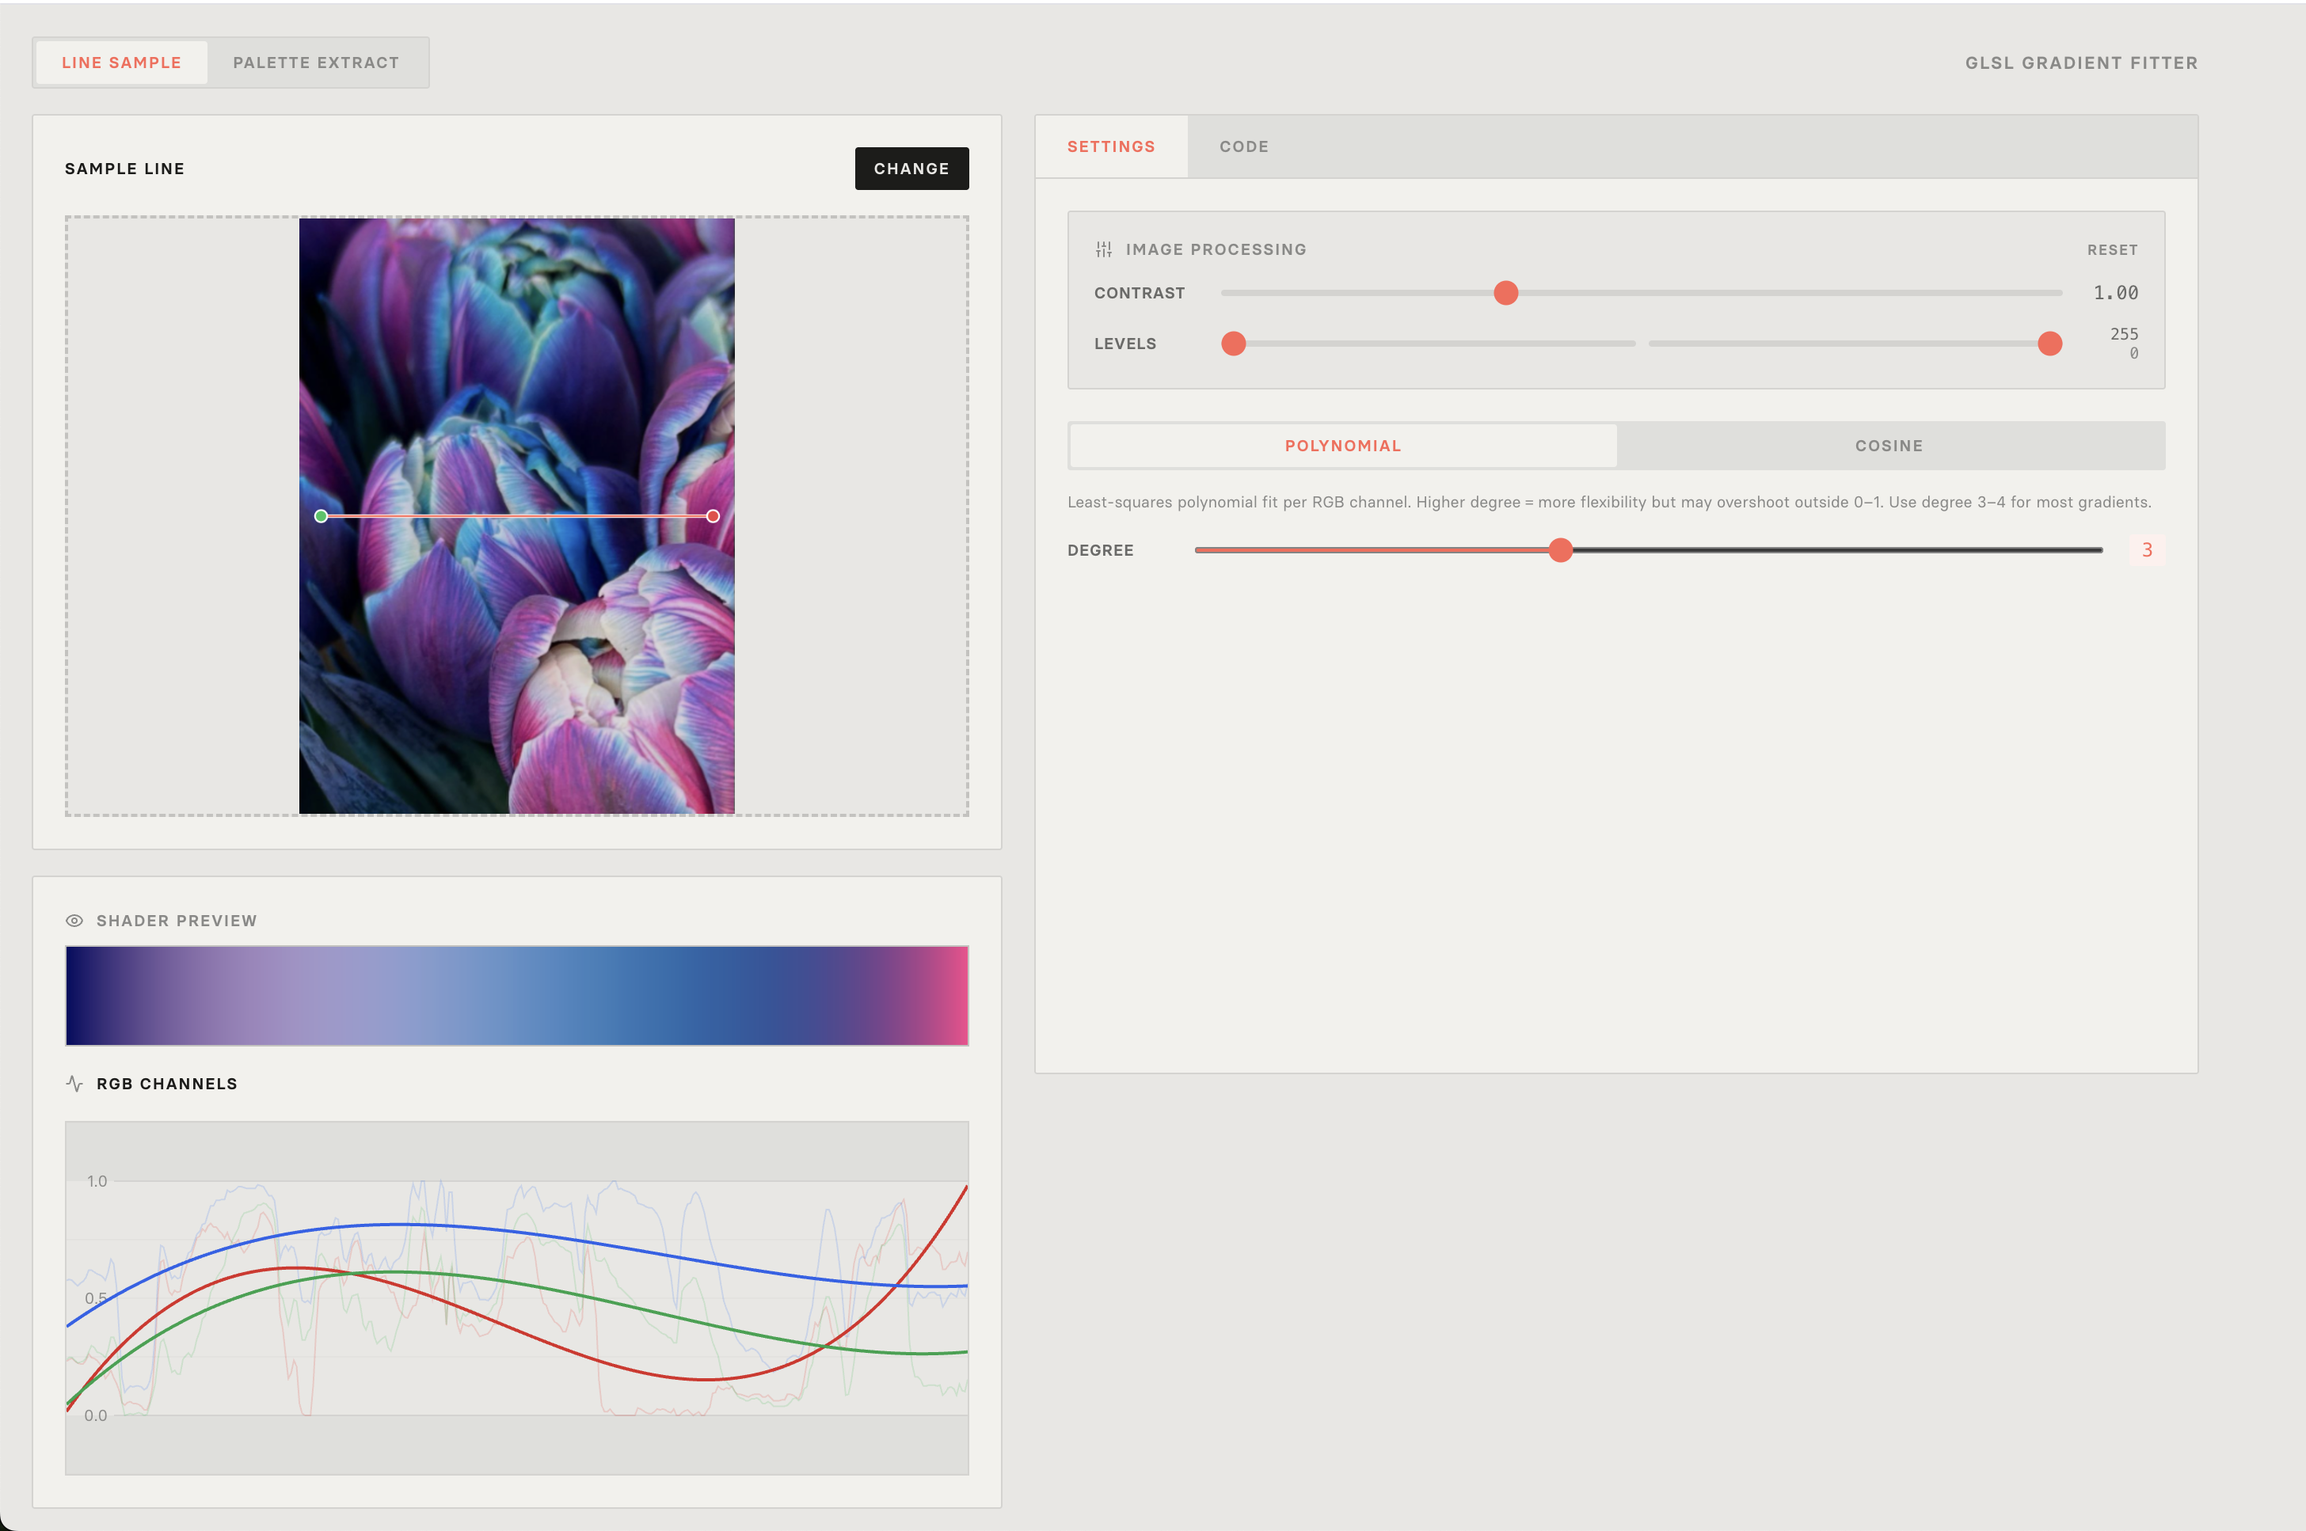
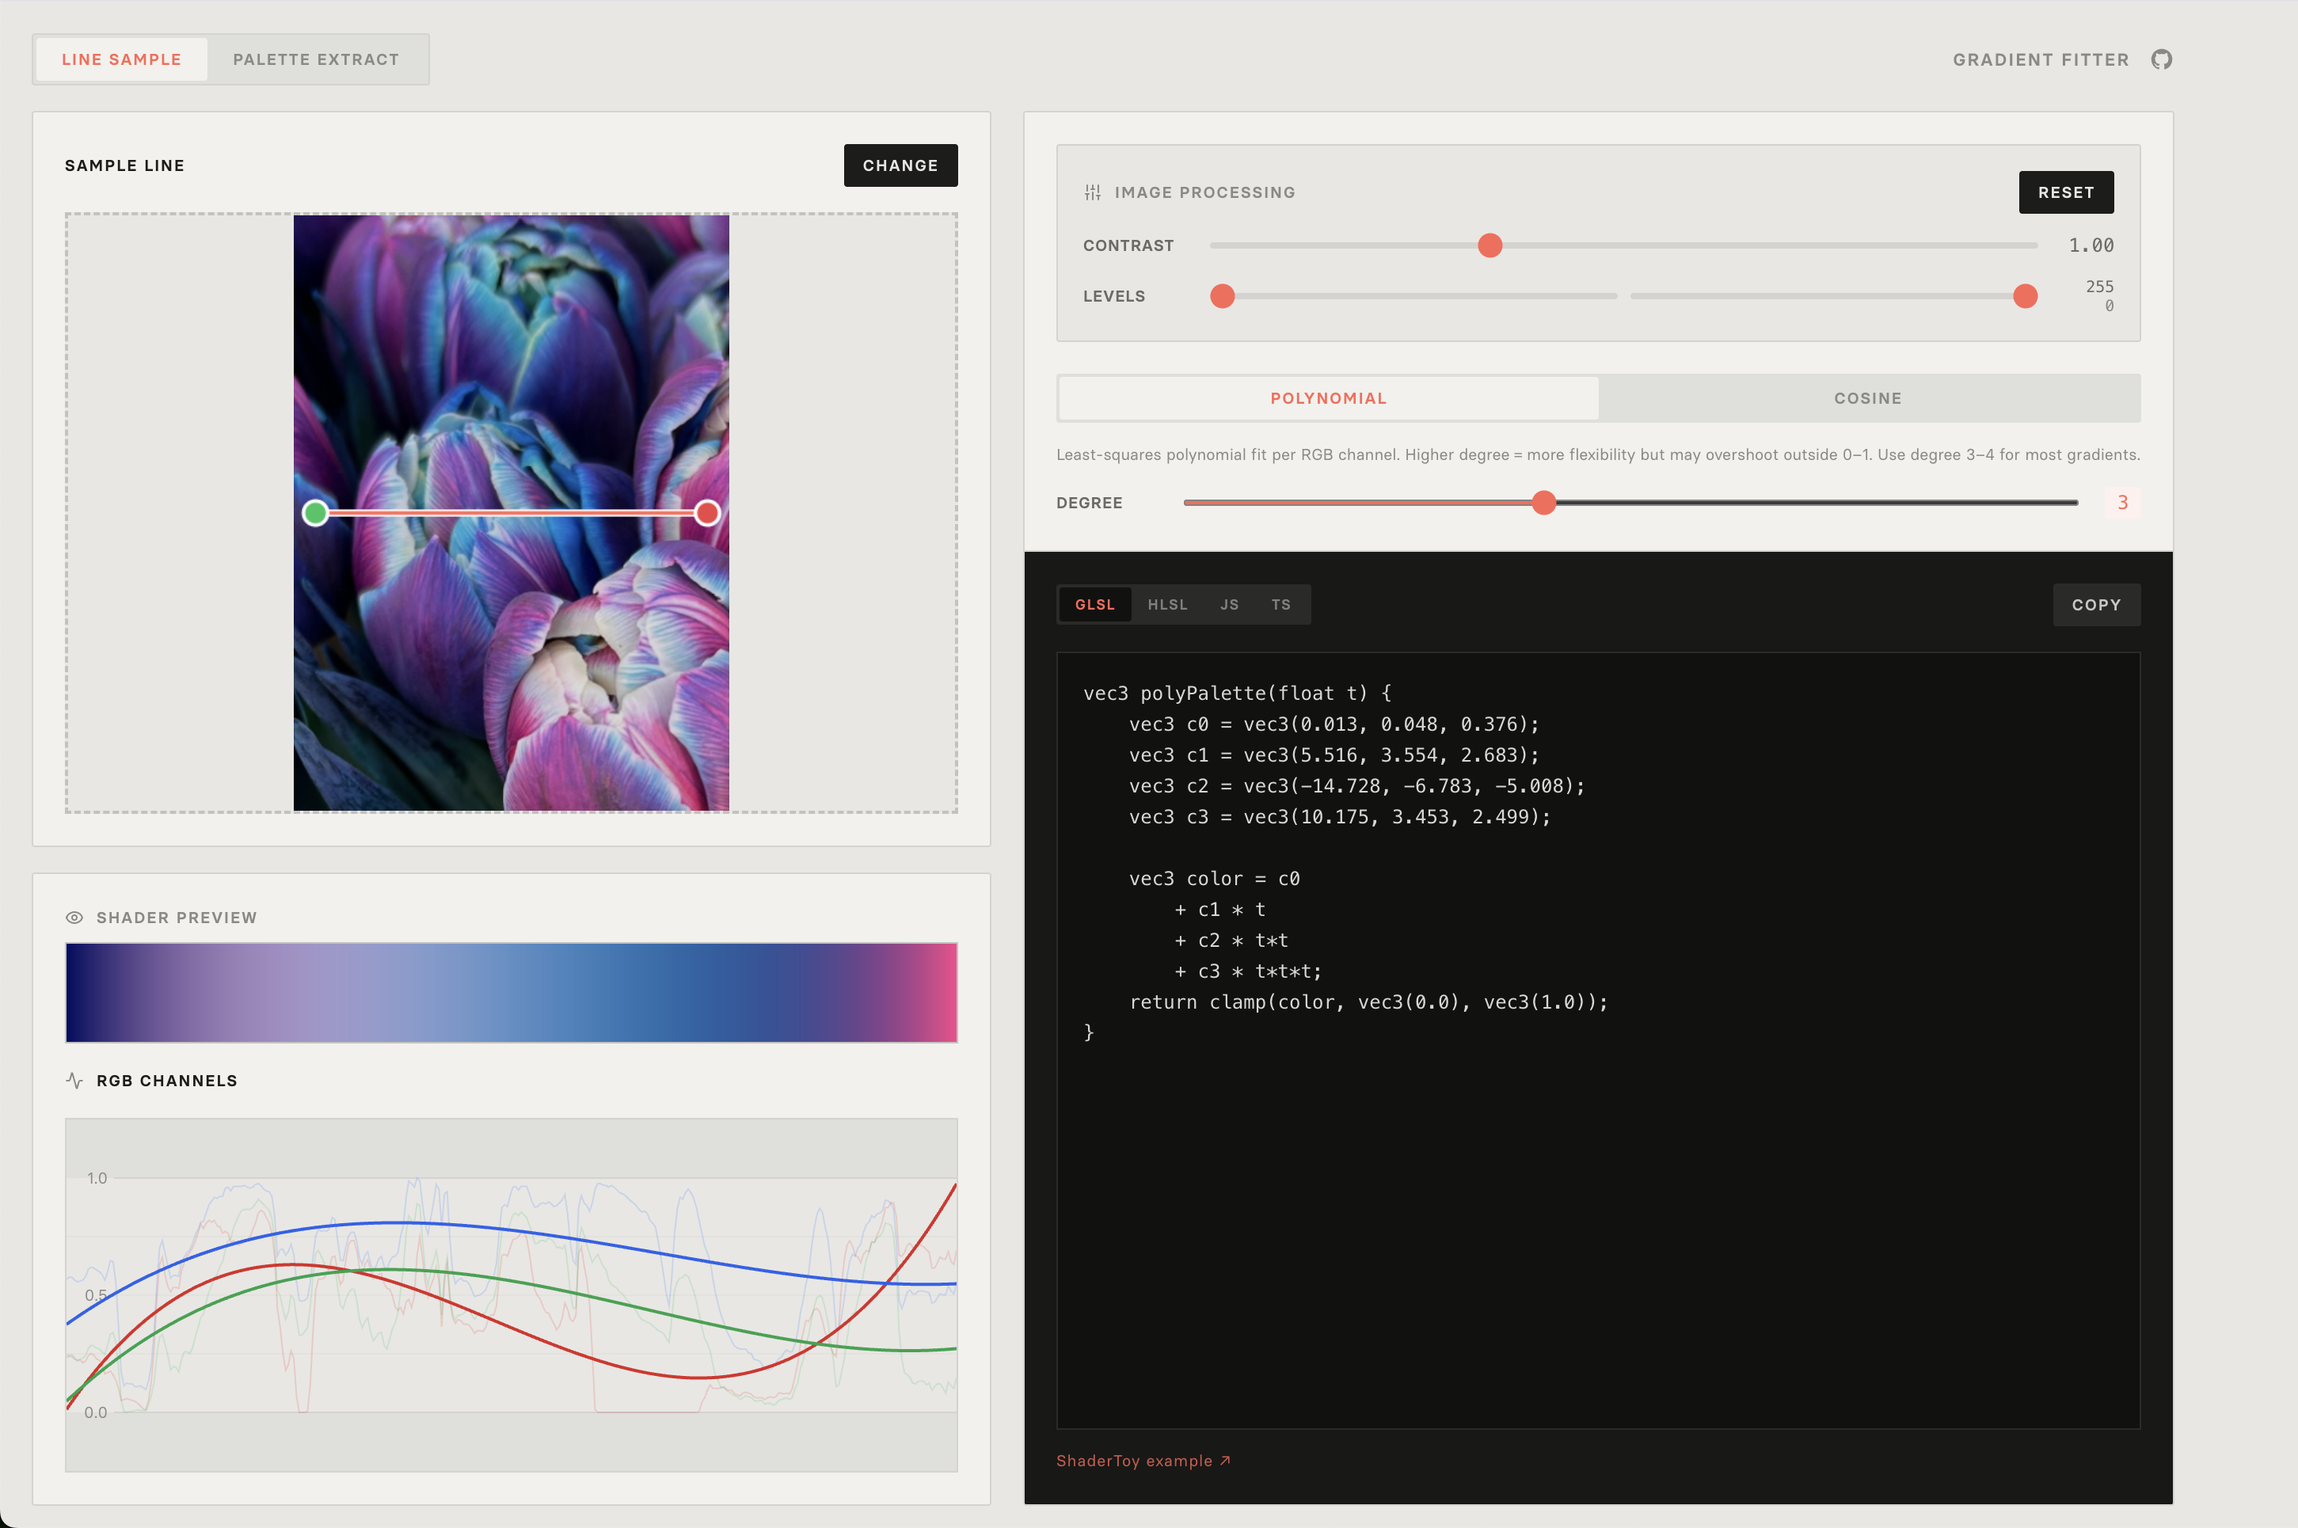
Polish: language tabs, animated settings, drag upload, layout fixes
- Wire language/fitMode props to palette mode CodePanel so tabs appear
- JS/TS output: regular function declarations, to255/toCSS helpers, remove usage comments
- Example links in code panel keyed by language and fit mode
- Drag-and-drop image upload with accent border highlight
- Animated collapsible sections in settings (grid-rows transition)
- Unified slider label widths, cosine More info link on separate line
- Layout: overflow-hidden on palette relative container prevents height jump,
  flex-1 chain in line mode fills code panel to full column height
- README: update for multi-language output, fix method count

diff --git a/src/components/PaletteModeSettings.jsx b/src/components/PaletteModeSettings.jsx
@@ -18,6 +18,12 @@ const Toggle = ({ on, onToggle, labelOn, labelOff }) => (
   </button>
 );
 
+const Collapsible = ({ open, children }) => (
+  <div className={`grid transition-[grid-template-rows] duration-200 ${open ? 'grid-rows-[1fr]' : 'grid-rows-[0fr]'}`}>
+    <div className="overflow-hidden">{children}</div>
+  </div>
+);
+
 const FIT_MODE_ORDER = ['catmull', 'linear', 'poly', 'cosine'];
 
 const FIT_MODE_DESCRIPTIONS = {
@@ -109,8 +115,8 @@ const PaletteModeSettings = ({
       )}
     </div>
 
-    {paletteMethod === 'api' && (
-      <>
+    <Collapsible open={paletteMethod === 'api'}>
+      <div className="space-y-3 pt-0.5">
         <div className="flex items-center gap-3">
           <label className="text-[10px] font-semibold text-[var(--text-secondary)] w-20 shrink-0 uppercase tracking-wider">
             Model
@@ -144,8 +150,8 @@ const PaletteModeSettings = ({
             {apiSeedCount} of 5
           </span>
         </div>
-      </>
-    )}
+      </div>
+    </Collapsible>
 
     <div className="flex items-center gap-2 pt-1">
       <span className="text-[9px] font-semibold text-[var(--text-muted)] uppercase tracking-widest">Fit Function</span>
@@ -169,25 +175,27 @@ const PaletteModeSettings = ({
     </div>
 
     <p className="text-[10px] text-[var(--text-muted)] leading-relaxed">
-      {paletteFitMode === 'cosine' ? (
-        <>
-          Fits a + b·cos(2π(ct+d)) per channel. Smooth, loops perfectly with freq locked. Best for organic gradients.{' '}
-          <a
-            href="https://iquilezles.org/articles/palettes/"
-            target="_blank"
-            rel="noopener noreferrer"
-            className="underline hover:text-[var(--text)] transition-colors"
-          >
-            iquilezles.org/articles/palettes
-          </a>
-        </>
-      ) : (
-        FIT_MODE_DESCRIPTIONS[paletteFitMode]
-      )}
+      {paletteFitMode === 'cosine'
+        ? 'Fits a + b·cos(2π(ct+d)) per channel. Smooth, loops perfectly with freq locked. Best for organic gradients.'
+        : FIT_MODE_DESCRIPTIONS[paletteFitMode]}
     </p>
 
-    {LINEAR_LIGHT_MODES.includes(paletteFitMode) && (
-      <div className="space-y-1.5">
+    <Collapsible open={paletteFitMode === 'cosine'}>
+      <p className="text-[10px] text-[var(--text-muted)] pt-0.5">
+        More info:{' '}
+        <a
+          href="https://iquilezles.org/articles/palettes/"
+          target="_blank"
+          rel="noopener noreferrer"
+          className="underline hover:text-[var(--text)] transition-colors"
+        >
+          iquilezles.org/articles/palettes
+        </a>
+      </p>
+    </Collapsible>
+
+    <Collapsible open={LINEAR_LIGHT_MODES.includes(paletteFitMode)}>
+      <div className="space-y-1.5 pt-0.5">
         <div className="flex items-center gap-3">
           <label className="text-[10px] font-semibold text-[var(--text-secondary)] w-20 uppercase tracking-wider">
             Interp. space
@@ -212,11 +220,11 @@ const PaletteModeSettings = ({
           </a>
         </p>
       </div>
-    )}
+    </Collapsible>
 
-    {paletteFitMode === 'poly' && (
-      <div className="flex items-center gap-4">
-        <label className="text-[10px] font-semibold text-[var(--text-secondary)] w-16 uppercase tracking-wider">
+    <Collapsible open={paletteFitMode === 'poly'}>
+      <div className="flex items-center gap-4 pt-0.5">
+        <label className="text-[10px] font-semibold text-[var(--text-secondary)] w-20 uppercase tracking-wider">
           Degree
         </label>
         <input
@@ -232,10 +240,10 @@ const PaletteModeSettings = ({
           {degree}
         </span>
       </div>
-    )}
+    </Collapsible>
 
-    {paletteMethod !== 'api' && (
-      <div className="space-y-1">
+    <Collapsible open={paletteMethod !== 'api'}>
+      <div className="space-y-1 pt-0.5">
         <div className="flex items-center gap-4">
           <label className="text-[10px] font-semibold text-[var(--text-secondary)] w-20 uppercase tracking-wider">
             Colors
@@ -258,10 +266,10 @@ const PaletteModeSettings = ({
           them smoothly.
         </p>
       </div>
-    )}
+    </Collapsible>
 
-    {paletteFitMode === 'cosine' && (
-      <div className="flex items-center gap-3">
+    <Collapsible open={paletteFitMode === 'cosine'}>
+      <div className="flex items-center gap-3 pt-0.5">
         <label className="text-[10px] font-semibold text-[var(--text-secondary)] w-20 uppercase tracking-wider">
           Lock freq
         </label>
@@ -270,10 +278,10 @@ const PaletteModeSettings = ({
           {lockFrequency ? 'Locked – gradient loops perfectly' : 'Free – more accurate fit, may not loop'}
         </span>
       </div>
-    )}
+    </Collapsible>
 
-    {(paletteFitMode === 'linear' || paletteFitMode === 'catmull') && paletteMethod !== 'api' && (
-      <div className="space-y-1.5">
+    <Collapsible open={(paletteFitMode === 'linear' || paletteFitMode === 'catmull') && paletteMethod !== 'api'}>
+      <div className="space-y-1.5 pt-0.5">
         <div className="flex items-center gap-3">
           <label className="text-[10px] font-semibold text-[var(--text-secondary)] w-20 uppercase tracking-wider">
             Dominance
@@ -292,7 +300,7 @@ const PaletteModeSettings = ({
             : 'Color stops are evenly spaced. Each color gets equal range regardless of how much of the image it covers.'}
         </p>
       </div>
-    )}
+    </Collapsible>
 
     <div className={`space-y-1 ${extractedColors.length === 0 ? 'hidden' : ''}`}>
       <div className="flex items-center justify-between">

diff --git a/src/App.jsx b/src/App.jsx
@@ -393,7 +393,7 @@ const App = () => {
           </a>
         </div>
 
-        <div className="grid grid-cols-1 lg:grid-cols-[1fr_1.2fr] gap-5 items-start">
+        <div className="grid grid-cols-1 lg:grid-cols-[1fr_1.2fr] gap-5 items-start lg:items-stretch">
           <div className="space-y-4 min-w-0">
             <ImagePanel
               imageSrc={imageSrc}
@@ -412,7 +412,7 @@ const App = () => {
             <GraphPanel graphRef={graphRef} shaderCanvasRef={shaderCanvasRef} />
           </div>
 
-          <div className="min-w-0 border border-[var(--border)] rounded-sm overflow-hidden">
+          <div className="min-w-0 border border-[var(--border)] rounded-sm overflow-hidden flex flex-col">
             {appMode === 'line' ? (
               <>
                 <div className="bg-[var(--surface)] p-5 space-y-5">
@@ -426,13 +426,13 @@ const App = () => {
                   />
                   <LineModeSettings fitMode={fitMode} setFitMode={setFitMode} degree={degree} setDegree={setDegree} />
                 </div>
-                <div className="border-t border-[var(--border)]">
-                  <CodePanel glslCode={glslCode} status={status} error={error} language={language} setLanguage={setLanguage} fitMode={fitMode} />
+                <div className="border-t border-[var(--border)] flex-1 flex flex-col">
+                  <CodePanel glslCode={glslCode} status={status} error={error} language={language} setLanguage={setLanguage} fitMode={fitMode} className="flex-1" />
                 </div>
               </>
             ) : (
               <>
-                <div className="flex bg-[var(--surface-muted)] border-b border-[var(--border)]">
+                <div className="flex bg-[var(--surface-muted)] border-b border-[var(--border)] shrink-0">
                   {[
                     ['settings', 'Settings'],
                     ['code', 'Code'],
@@ -450,9 +450,9 @@ const App = () => {
                     </button>
                   ))}
                 </div>
-                <div className="relative">
-                  <div className={rightTab === 'code' ? 'invisible pointer-events-none' : ''}>
-                    <div className="bg-[var(--surface)] p-5">
+                <div className="relative flex-1 min-h-0 overflow-hidden">
+                  <div className={`h-full ${rightTab === 'code' ? 'invisible pointer-events-none' : ''}`}>
+                    <div className="bg-[var(--surface)] p-5 h-full overflow-auto">
                       <div className="space-y-5">
                         <ImageAdjustPanel
                           contrast={contrast}

diff --git a/src/components/LineModeSettings.jsx b/src/components/LineModeSettings.jsx
@@ -1,15 +1,14 @@
 import React from 'react';
 
+const Collapsible = ({ open, children }) => (
+  <div className={`grid transition-[grid-template-rows] duration-200 ${open ? 'grid-rows-[1fr]' : 'grid-rows-[0fr]'}`}>
+    <div className="overflow-hidden">{children}</div>
+  </div>
+);
+
 const ALGO_DESCRIPTIONS = {
   poly: 'Least-squares polynomial fit per RGB channel. Higher degree = more flexibility but may overshoot outside 0–1. Use degree 3–4 for most gradients.',
-  cosine: (
-    <>
-      Fits a + b·cos(2π(ct+d)) per channel. Smooth, loops perfectly with freq locked. Best for organic gradients.{' '}
-      <a href="https://iquilezles.org/articles/palettes/" target="_blank" rel="noopener noreferrer" className="underline hover:text-[var(--text)] transition-colors">
-        iquilezles.org/articles/palettes
-      </a>
-    </>
-  ),
+  cosine: 'Fits a + b·cos(2π(ct+d)) per channel. Smooth, loops perfectly with freq locked. Best for organic gradients.',
 };
 
 const LineModeSettings = ({ fitMode, setFitMode, degree, setDegree }) => (
@@ -34,9 +33,23 @@ const LineModeSettings = ({ fitMode, setFitMode, degree, setDegree }) => (
       {ALGO_DESCRIPTIONS[fitMode]}
     </p>
 
-    {fitMode === 'poly' && (
-      <div className="flex items-center gap-4">
-        <label className="text-[10px] font-semibold text-[var(--text-secondary)] w-16 uppercase tracking-wider">
+    <Collapsible open={fitMode === 'cosine'}>
+      <p className="text-[10px] text-[var(--text-muted)] pt-0.5">
+        More info:{' '}
+        <a
+          href="https://iquilezles.org/articles/palettes/"
+          target="_blank"
+          rel="noopener noreferrer"
+          className="underline hover:text-[var(--text)] transition-colors"
+        >
+          iquilezles.org/articles/palettes
+        </a>
+      </p>
+    </Collapsible>
+
+    <Collapsible open={fitMode === 'poly'}>
+      <div className="flex items-center gap-4 pt-0.5">
+        <label className="text-[10px] font-semibold text-[var(--text-secondary)] w-20 uppercase tracking-wider">
           Degree
         </label>
         <input
@@ -50,7 +63,7 @@ const LineModeSettings = ({ fitMode, setFitMode, degree, setDegree }) => (
           {degree}
         </span>
       </div>
-    )}
+    </Collapsible>
   </div>
 );
 

diff --git a/src/components/ImagePanel.jsx b/src/components/ImagePanel.jsx
@@ -25,6 +25,16 @@ const ImagePanel = ({
   onTouchEnd,
 }) => {
   const fileInputRef = React.useRef(null);
+  const [dragging, setDragging] = React.useState(false);
+
+  const handleDrop = (e) => {
+    e.preventDefault();
+    setDragging(false);
+    const file = e.dataTransfer.files[0];
+    if (file && file.type.startsWith('image/')) {
+      onImageUpload({ target: { files: [file] } });
+    }
+  };
 
   return (
     <div className="bg-[var(--surface)] p-5 border border-[var(--border)] rounded-sm">
@@ -39,8 +49,11 @@ const ImagePanel = ({
       </div>
 
       <div
-        className="relative flex justify-center items-center bg-[var(--bg)] border-2 border-dashed border-[var(--border-strong)] overflow-hidden min-h-[250px] max-h-[380px] select-none"
+        className={`relative flex justify-center items-center bg-[var(--bg)] border-2 border-dashed overflow-hidden min-h-[250px] max-h-[380px] select-none transition-colors ${dragging ? 'border-[var(--accent)]' : 'border-[var(--border-strong)]'}`}
         onClick={() => !imageSrc && fileInputRef.current?.click()}
+        onDragOver={(e) => { e.preventDefault(); setDragging(true); }}
+        onDragLeave={() => setDragging(false)}
+        onDrop={handleDrop}
       >
         {!imageSrc && (
           <div className="flex flex-col items-center gap-4 pointer-events-none">

diff --git a/src/components/CodePanel.jsx b/src/components/CodePanel.jsx
@@ -23,7 +23,7 @@ const getExampleLink = (language, fitMode) => {
 };
 
 const CodePanel = ({ glslCode, status, error, language, setLanguage, fitMode, className = '' }) => (
-  <div className={`bg-[var(--code-bg)] text-[var(--code-text)] p-5 flex flex-col min-h-[480px] ${className}`}>
+  <div className={`bg-[var(--code-bg)] text-[var(--code-text)] p-5 flex flex-col ${className || 'min-h-[480px]'}`}>
     <div className="flex justify-between items-center mb-4 gap-3">
       <div className="flex bg-[var(--code-border)] rounded-sm p-0.5 shrink-0">
         {LANGS.map(({ id, label }) => (
